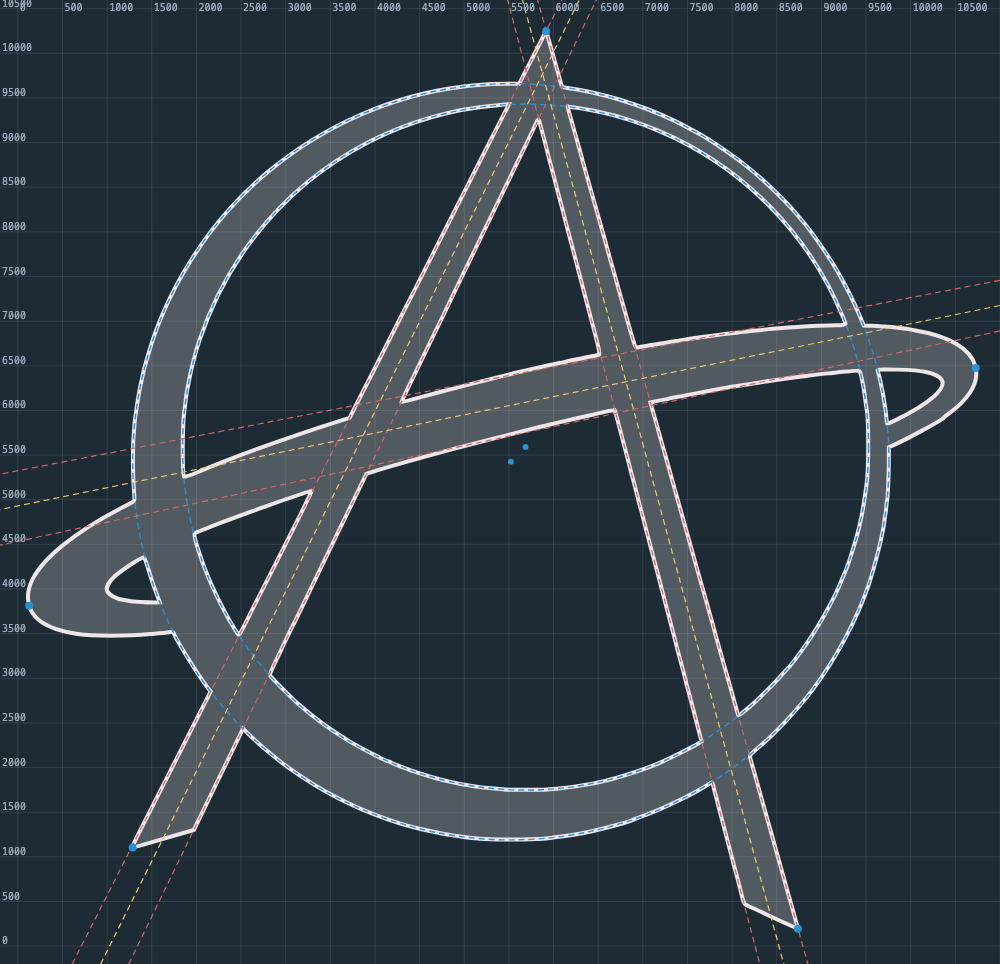
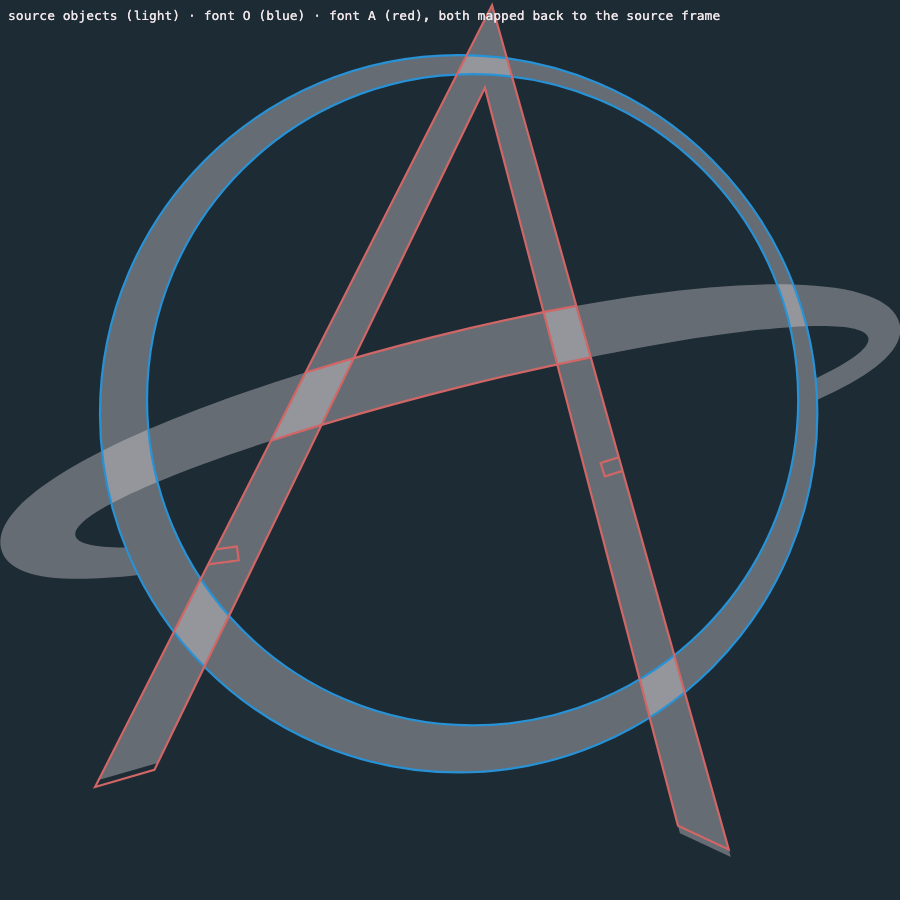
docs(font): add a specimen sheet to the evidence
The existing proof.py writes one 13,500-pixel row, which is right for checking
advances side by side and useless for looking at the face. measure/specimen.py
writes the set at four sizes, the punctuation, and four lines of words, and
measure/evidence/specimen.png is the committed render.

Also renders the A/O source overlay to evidence/overlay.png, which until now
only existed as a build artefact.

diff --git a/font/measure/specimen.py b/font/measure/specimen.py
@@ -1,0 +1,67 @@
+"""A specimen sheet for review: the set at several sizes, and the A and O on their source.
+
+Writes measure/evidence/specimen.svg.  Rasterise it with measure/rasterize.mjs or any
+headless browser; measure/evidence/specimen.png is the committed render.
+"""
+import json, os, sys
+HERE = os.path.dirname(os.path.dirname(os.path.abspath(__file__)))
+sys.path.insert(0, os.path.join(HERE, 'lib')); sys.path.insert(0, HERE)
+from pen import Contour
+
+G = json.load(open(os.path.join(HERE, 'build', 'glyphs.json')))
+CAP, GL = G['cap'], G['glyphs']
+BG, INK, ACC, DIM = '#1D2B35', '#EEE5E9', '#2892D7', '#8b9fac'
+NAME = {' ': 'space', '&': 'ampersand', '@': 'at', '.': 'period', ',': 'comma', '-': 'hyphen',
+        '!': 'exclam', '?': 'question', '#': 'numbersign', '%': 'percent', '(': 'parenleft',
+        ')': 'parenright', '[': 'bracketleft', ']': 'bracketright', '/': 'slash', '+': 'plus',
+        '=': 'equal', ':': 'colon', ';': 'semicolon', '_': 'underscore', '*': 'asterisk',
+        '"': 'quotedbl', "'": 'quotesingle'}
+for d, n in zip('0123456789', ('zero one two three four five six seven eight nine').split()):
+    NAME[d] = n
+
+P = []
+def txt(x, y, t, c=DIM, s=13):
+    P.append(f'<text x="{x:.0f}" y="{y:.0f}" fill="{c}" font-family="monospace" font-size="{s}">{t}</text>')
+def draw(t, x, base, S, col=INK):
+    for ch in t:
+        n = NAME.get(ch, ch); g = GL.get(n)
+        if not g: continue
+        d = " ".join(Contour.from_json(c).to_svg() for c in g['contours'])
+        if d.strip():
+            P.append(f'<g transform="translate({x:.2f},{base:.2f}) scale({S},{-S})"><path d="{d}" fill="{col}"/></g>')
+        x += g['adv'] * S
+    return x
+def wid(t, S):
+    return sum(GL[NAME.get(c, c)]['adv'] for c in t if NAME.get(c, c) in GL) * S
+
+W = 1800; y = 44
+txt(30, y, 'Orphan Display', INK, 22); y += 24
+txt(30, y, f"{len(GL)} glyphs drawn from the AO mark: 26 uppercase, 10 figures, {len(GL)-36} punctuation.", DIM, 13); y += 34
+
+# The alphabet at 92 does not fit 1800 wide on one line, so the large size is split;
+# below that it fits, and each row gets a full line advance so nothing overlaps.
+for size, lines in ((92, ('ABCDEFGHIJKLM', 'NOPQRSTUVWXYZ', '0123456789')),
+                    (46, ('ABCDEFGHIJKLMNOPQRSTUVWXYZ', '0123456789')),
+                    (27, ('ABCDEFGHIJKLMNOPQRSTUVWXYZ 0123456789',)),
+                    (17, ('ABCDEFGHIJKLMNOPQRSTUVWXYZ 0123456789',))):
+    txt(30, y, f'cap {size}px', ACC, 12); y += 8
+    for line in lines:
+        y += size + int(size * 0.30)
+        draw(line, 34, y, size / CAP)
+    y += 26
+
+txt(30, y, 'punctuation', ACC, 12); y += 12
+draw('&@#%*()[]{}.,:;!?"\'-+=/_', 34, y + 54, 54 / CAP); y += 96
+
+txt(30, y, 'in words', ACC, 12); y += 12
+for size, line in ((60, 'HAMBURGEFONS'), (44, 'ORPHAN DISPLAY & CO.'), (30, 'THE QUICK BROWN FOX JUMPS OVER 13 LAZY DOGS'),
+                   (19, 'MEMBER WOMAN MINIMUM · BEACH PARAGRAPH GRAPHITE · 0123456789')):
+    y += size + 10
+    draw(line, 34, y, size / CAP)
+    y += 14
+
+H = int(y + 34)
+open(os.path.join(HERE, 'measure', 'evidence', 'specimen.svg'), 'w').write(
+    f'<svg xmlns="http://www.w3.org/2000/svg" width="{W}" height="{H}" viewBox="0 0 {W} {H}">'
+    f'<rect width="{W}" height="{H}" fill="{BG}"/>' + "".join(P) + '</svg>')
+print(f"  wrote measure/evidence/specimen.svg  {W}x{H}")
